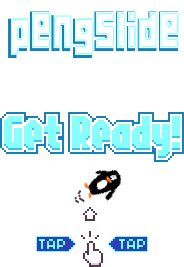
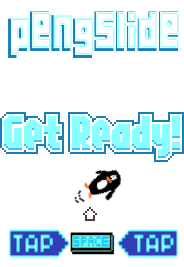
Animated floor on start screen
Changed instruction message from 'tap' to 'spacebar'

Changed region(s): [[0.0272, 0.839, 0.9783, 1.0]]

diff --git a/main.py b/main.py
@@ -157,8 +157,12 @@ while not running:
             sys.exit()
     WINDOW.blit(bg_surface, (0, 0))
     WINDOW.blit(game_over_surface, game_over_rect)
+    floor_x_pos -= 1
     draw_floor()
+    if floor_x_pos <= -576:
+        floor_x_pos = 0
     pygame.display.flip()
+    clock.tick(144)
 
 while running:
     for event in pygame.event.get():
